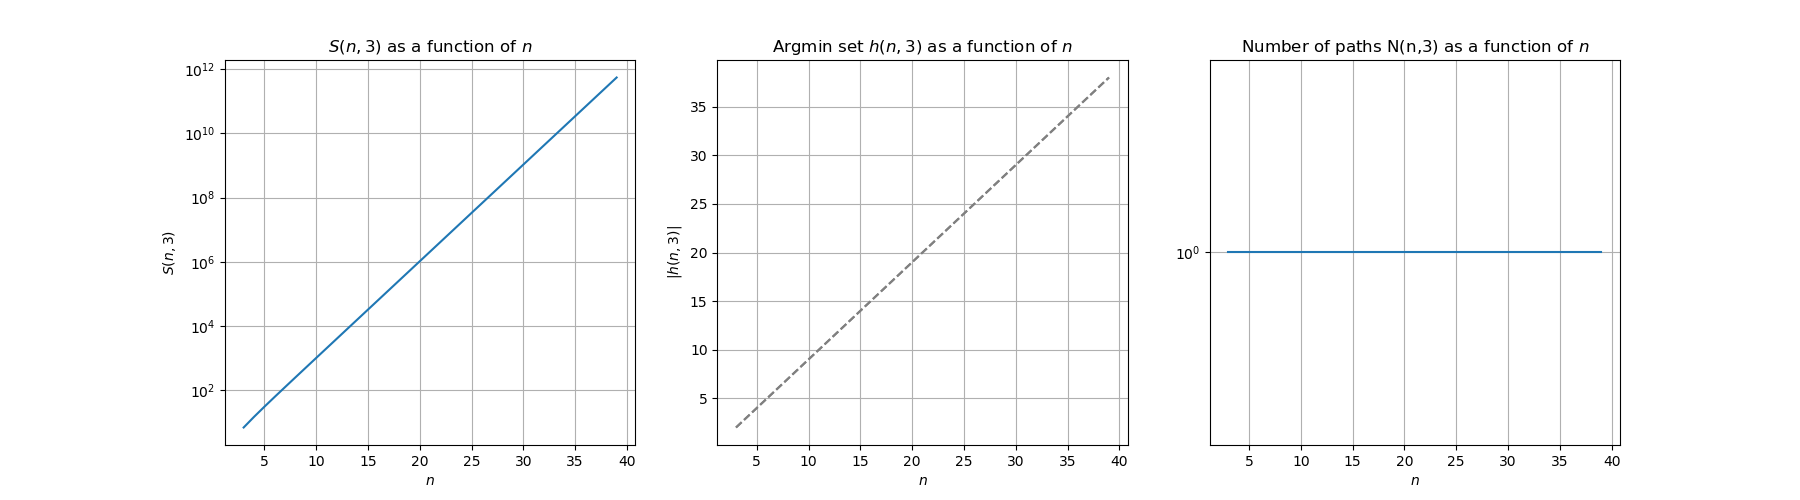
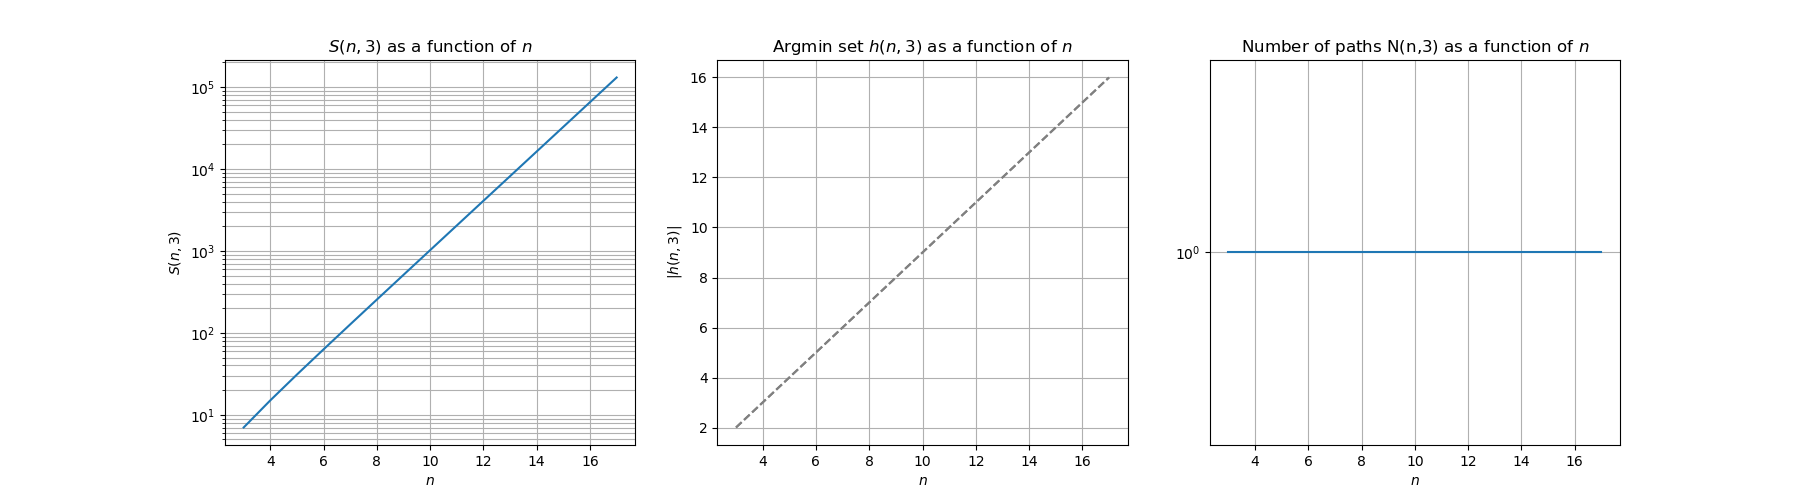
correction

diff --git a/stewart.py b/stewart.py
@@ -49,7 +49,7 @@ def nb_chemins(n,p):
     if (n,p) in nb_chemins_mem:
         return nb_chemins_mem[(n,p)]
     lm = S_optcut(n,p)[1]
-    nb_chemins_mem[(n,p)] = sum([ nb_chemins(m,p) + nb_chemins(n-m,p-1)   for m in lm ])
+    nb_chemins_mem[(n,p)] = sum([ nb_chemins(m,p) * nb_chemins(n-m,p-1) ** 2   for m in lm ])
     return nb_chemins_mem[(n,p)]
 
 
@@ -150,10 +150,12 @@ def plot_etat(fig, n, p, etat):
 
 # Génération des courbes
 
-nrange = range(3,40)
-rln = range(len(nrange))
-for p in range(3,10):
-    print(p)
+for p in range(3,9):
+
+    nrange = range(3,2*p*p)
+    rln = range(len(nrange))
+    
+    print(p, rln)
 
     fig = plt.figure(figsize=(18,5))
     
